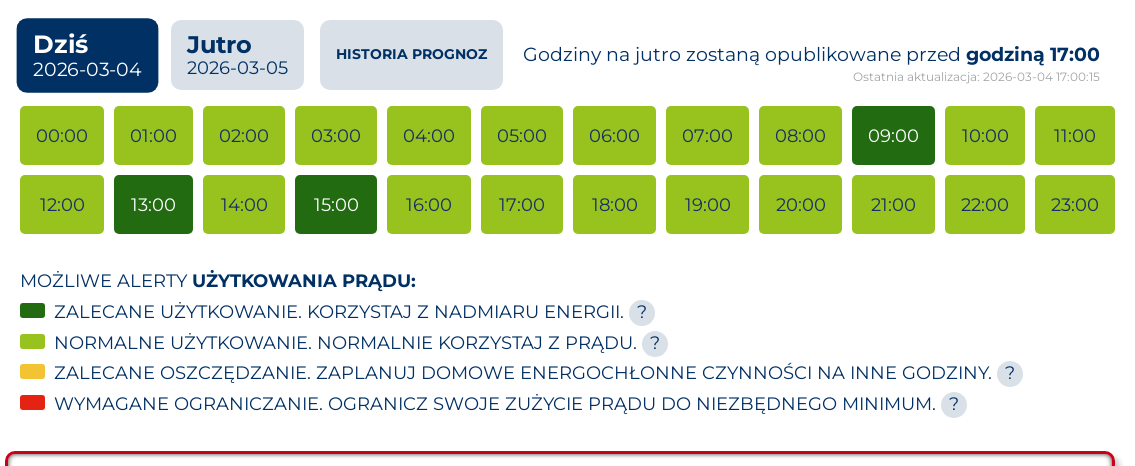
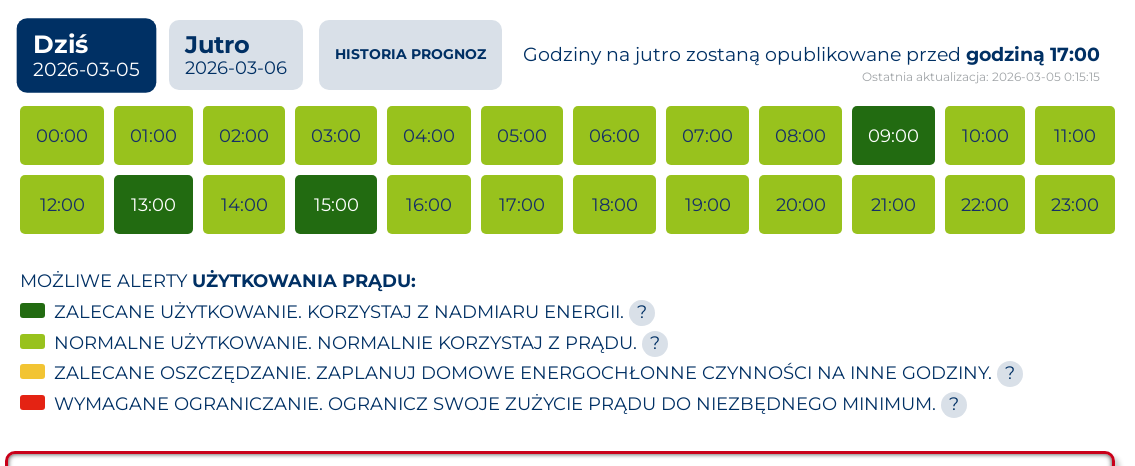
site: update 2026-03-04 23:15 UTC

Changed region(s): [[0.0925, 0.0601, 0.2467, 0.1803], [0.2775, 0.0901, 0.4317, 0.1502], [0.7401, 0.1502, 0.9559, 0.1803]]

diff --git a/site/html_02_raport_ze_stanu_teraz.html b/site/html_02_raport_ze_stanu_teraz.html
@@ -18,7 +18,7 @@
   </div>
 
   <section class="hero">
-    <div class="kicker">Ostatni odczyt: 05.03.2026 00:00</div>
+    <div class="kicker">Ostatni odczyt: 05.03.2026 00:15</div>
     <h1>Raport ze stanu teraz</h1>
     <p>
       Taryfy Tauron:
@@ -42,7 +42,7 @@
       <tbody>
         <tr>
           <th style="width:40%;">Czas odczytu</th>
-          <td>05.03.2026 00:00</td>
+          <td>05.03.2026 00:15</td>
         </tr>
         <tr>
           <th>Położenie</th>
@@ -62,27 +62,27 @@
       <tbody>
         <tr>
           <th style="width:40%;">Produkcja PV dzisiaj [kWh]</th>
-          <td>9.50</td>
+          <td>0.00</td>
         </tr>
         <tr>
           <th>Zużycie energii dzisiaj [kWh]</th>
-          <td>27.60</td>
+          <td>1.80</td>
         </tr>
         <tr>
           <th>Energia pobrana z sieci dzisiaj [kWh]</th>
-          <td>22.30</td>
+          <td>1.80</td>
         </tr>
         <tr>
           <th>Zużycie z sieci dzisiaj [kWh]</th>
-          <td>18.90</td>
+          <td>1.80</td>
         </tr>
         <tr>
           <th>Zużycie z własnego systemu dzisiaj [kWh]</th>
-          <td>8.70</td>
+          <td>0.00</td>
         </tr>
         <tr>
           <th>Wyjście inwertera dzisiaj [kWh]</th>
-          <td>8.70</td>
+          <td>0.00</td>
         </tr>
       </tbody>
     </table>
@@ -146,19 +146,19 @@
         </tr>
         <tr>
           <th>Moc ładowania [W]</th>
-          <td>6974</td>
+          <td>7019</td>
         </tr>
         <tr>
           <th>Napięcie [V]</th>
-          <td>232.70</td>
+          <td>235.17</td>
         </tr>
         <tr>
           <th>Prąd [A]</th>
-          <td>10.01</td>
+          <td>9.97</td>
         </tr>
         <tr>
           <th>Energia sesji [kWh]</th>
-          <td>12.50</td>
+          <td>14.30</td>
         </tr>
       </tbody>
     </table>

diff --git a/site/html_03_g13_g14_porownanie.html b/site/html_03_g13_g14_porownanie.html
@@ -18,7 +18,7 @@
   </div>
 
   <section class="hero">
-    <div class="kicker">Ceny sprzedaży i zakupu energii oraz tryb SolaX (ostatni odczyt: 2026-03-05 00:00:00, strona wygenerowana 2026-03-05 00:00:15)</div>
+    <div class="kicker">Ceny sprzedaży i zakupu energii oraz tryb SolaX (ostatni odczyt: 2026-03-05 00:15:00, strona wygenerowana 2026-03-05 00:15:31)</div>
     <h1>Ceny energii i tryb SolaX</h1>
     <p>
       Taryfy Tauron:
@@ -44,7 +44,7 @@
       <tbody>
         <tr>
           <td>Cena sprzedaży energii (SELL)</td>
-          <td>0,534</td>
+          <td>0,499</td>
         </tr>
         <tr>
           <td>Cena zakupu energii w taryfie G13</td>
@@ -52,7 +52,7 @@
         </tr>
         <tr>
           <td>Cena zakupu energii w taryfie G14</td>
-          <td>0,767</td>
+          <td>0,724</td>
         </tr>
       </tbody>
     </table>
